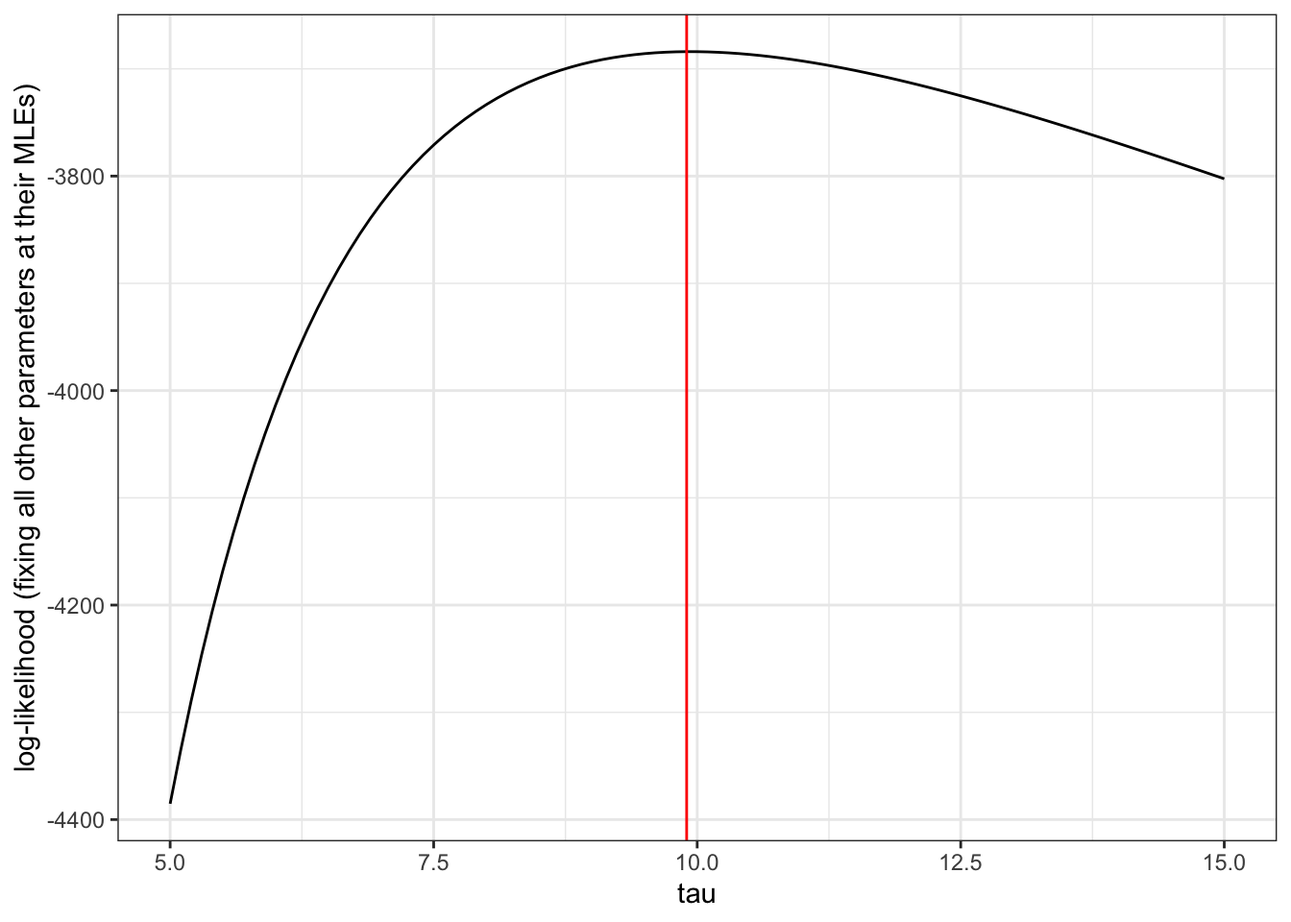
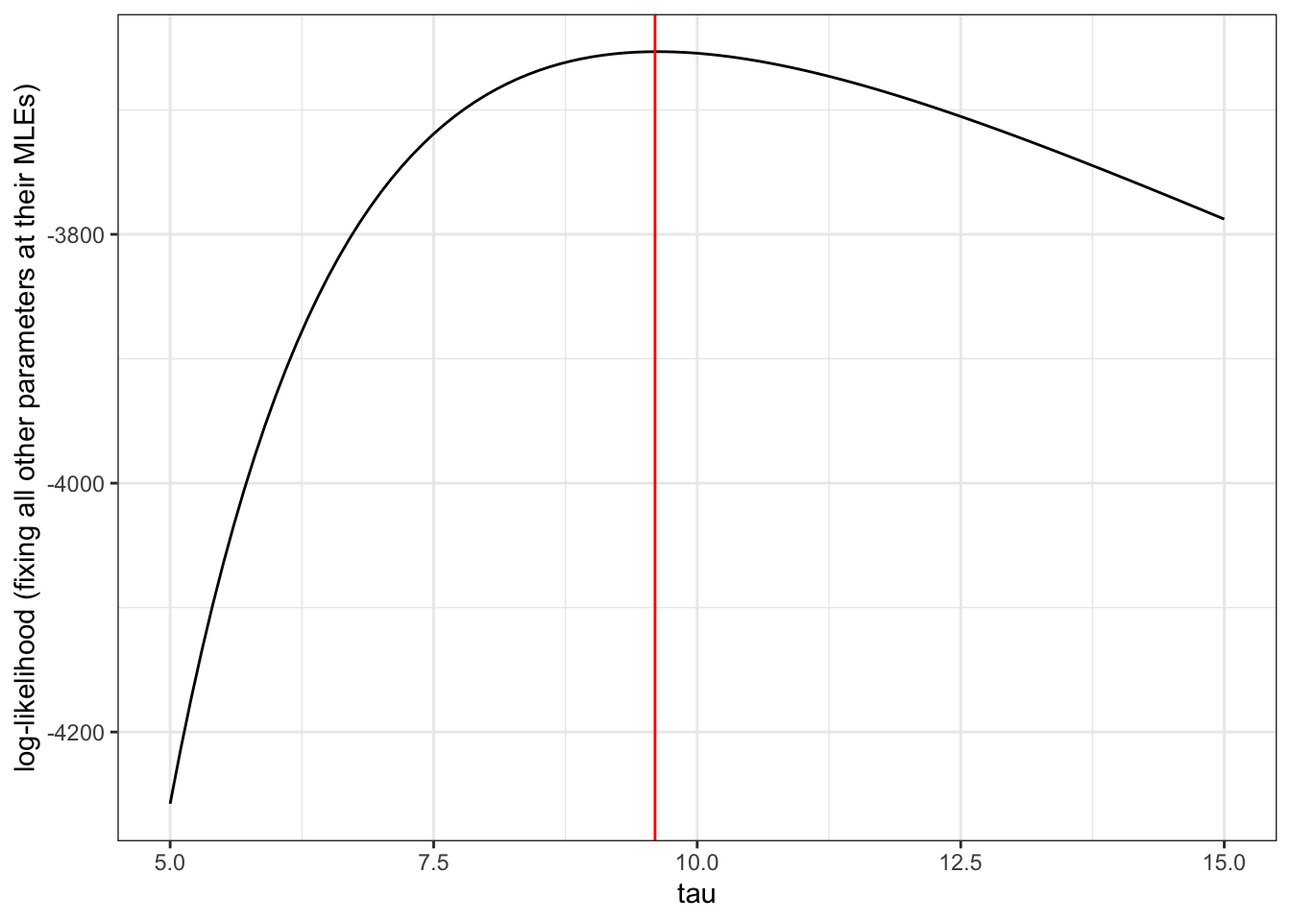
Built site for gh-pages

diff --git a/lec07-intro-to-stats.html b/lec07-intro-to-stats.html
@@ -364,9 +364,9 @@ pre > code.sourceCode > span > a:first-child::before { text-decoration: underlin
 <span id="cb2-5"><a href="#cb2-5" aria-hidden="true" tabindex="-1"></a>                                   <span class="at">replace =</span> T)</span>
 <span id="cb2-6"><a href="#cb2-6" aria-hidden="true" tabindex="-1"></a>realizations_N_die_rolls</span></code><button title="Copy to Clipboard" class="code-copy-button"><i class="bi"></i></button></pre></div>
 <div class="cell-output cell-output-stdout">
-<pre><code>  [1] 4 1 3 4 2 1 1 4 4 4 4 2 4 1 2 4 1 2 2 1 4 4 1 4 3 1 2 3 3 2 3 1 3 1 3 2 4
- [38] 3 4 2 2 1 4 3 2 1 2 1 1 1 3 3 1 2 1 3 2 3 4 2 2 3 1 4 3 1 4 1 1 2 1 2 3 1
- [75] 2 2 1 3 2 2 4 4 2 2 4 4 1 3 3 4 2 3 1 1 3 1 2 4 4 3</code></pre>
+<pre><code>  [1] 2 1 3 4 4 2 2 1 2 2 3 4 2 3 3 4 4 2 2 4 1 2 4 3 1 1 1 2 4 3 3 3 4 2 3 3 2
+ [38] 1 3 4 3 1 4 1 4 2 2 4 4 4 1 3 4 3 2 3 3 3 3 2 2 2 3 1 1 2 4 4 4 3 4 4 4 3
+ [75] 4 2 2 1 2 1 1 1 2 1 2 4 4 4 3 1 3 4 3 2 3 1 3 4 3 3</code></pre>
 </div>
 <div class="sourceCode cell-code" id="cb4"><pre class="sourceCode r code-with-copy"><code class="sourceCode r"><span id="cb4-1"><a href="#cb4-1" aria-hidden="true" tabindex="-1"></a>realizations_N_die_rolls <span class="ot">&lt;-</span> <span class="fu">data.frame</span>(<span class="at">value =</span> realizations_N_die_rolls)</span>
 <span id="cb4-2"><a href="#cb4-2" aria-hidden="true" tabindex="-1"></a><span class="fu">ggplot</span>(realizations_N_die_rolls, </span>
@@ -402,9 +402,9 @@ pre > code.sourceCode > span > a:first-child::before { text-decoration: underlin
 <span id="cb8-4"><a href="#cb8-4" aria-hidden="true" tabindex="-1"></a></span>
 <span id="cb8-5"><a href="#cb8-5" aria-hidden="true" tabindex="-1"></a><span class="fu">bernouli</span>(<span class="fl">0.1</span>, <span class="dv">100</span>) <span class="do">### 100 realizations of a Bernouli(p = 0.1) RV</span></span></code><button title="Copy to Clipboard" class="code-copy-button"><i class="bi"></i></button></pre></div>
 <div class="cell-output cell-output-stdout">
-<pre><code>  [1] 0 0 0 0 0 0 0 0 0 0 0 1 0 0 0 0 0 0 0 0 1 0 0 0 0 0 0 0 1 0 0 0 1 0 1 0 0
- [38] 0 1 0 1 0 0 1 0 0 0 0 0 0 0 0 0 0 0 0 0 0 1 0 0 0 0 1 0 0 0 0 0 0 0 0 0 0
- [75] 0 0 0 0 0 0 1 0 0 0 0 0 1 0 0 0 0 0 0 0 0 0 0 0 0 0</code></pre>
+<pre><code>  [1] 0 0 0 0 0 0 0 0 0 0 0 0 0 1 0 0 0 0 0 0 0 0 0 0 0 0 0 0 0 0 0 0 1 0 0 0 0
+ [38] 1 0 1 0 0 0 0 0 0 0 0 0 0 0 0 0 0 0 0 0 0 0 0 0 0 0 0 0 0 0 0 0 0 0 0 0 0
+ [75] 0 0 0 0 0 0 0 0 0 0 0 0 0 0 0 0 0 0 0 0 1 0 1 0 0 0</code></pre>
 </div>
 </div>
 <p>The distribution of a continuous random variable <span class="math inline">\(Y\)</span> is defined by a function <span class="math inline">\(f(y|\theta)\)</span> called its probability <em>density</em>. The probability of an event <span class="math inline">\(A\)</span> (for example, observing a number between 0.3 and 0.7) is</p>
@@ -433,33 +433,33 @@ pre > code.sourceCode > span > a:first-child::before { text-decoration: underlin
 <div class="cell">
 <div class="sourceCode cell-code" id="cb10"><pre class="sourceCode r code-with-copy"><code class="sourceCode r"><span id="cb10-1"><a href="#cb10-1" aria-hidden="true" tabindex="-1"></a><span class="fu">runif</span>(<span class="at">n =</span> <span class="dv">10</span>, <span class="at">min =</span> <span class="sc">-</span><span class="dv">1</span>, <span class="at">max =</span> <span class="dv">1</span>) </span></code><button title="Copy to Clipboard" class="code-copy-button"><i class="bi"></i></button></pre></div>
 <div class="cell-output cell-output-stdout">
-<pre><code> [1]  0.15636411 -0.20077892 -0.88064871 -0.82728765 -0.83898775 -0.54711388
- [7]  0.03401905 -0.82920443  0.78519119 -0.43522798</code></pre>
+<pre><code> [1] -0.7551430  0.4863448 -0.5445101  0.3445260 -0.2154239 -0.4950385
+ [7]  0.6940113 -0.5249796  0.4334644 -0.2951193</code></pre>
 </div>
 <div class="sourceCode cell-code" id="cb12"><pre class="sourceCode r code-with-copy"><code class="sourceCode r"><span id="cb12-1"><a href="#cb12-1" aria-hidden="true" tabindex="-1"></a><span class="do">## simulates n = 10 realizations of a Uniform(-1,1) RV</span></span>
 <span id="cb12-2"><a href="#cb12-2" aria-hidden="true" tabindex="-1"></a></span>
 <span id="cb12-3"><a href="#cb12-3" aria-hidden="true" tabindex="-1"></a><span class="fu">rnorm</span>(<span class="at">n =</span> <span class="dv">100</span>, <span class="at">mean =</span> <span class="dv">0</span>, <span class="at">sd =</span> <span class="dv">1</span>) </span></code><button title="Copy to Clipboard" class="code-copy-button"><i class="bi"></i></button></pre></div>
 <div class="cell-output cell-output-stdout">
-<pre><code>  [1]  0.186290074 -0.307937711 -2.622678373 -0.765204664  0.716497651
-  [6]  1.486331970  0.336537709 -1.081713954 -0.476078498 -0.101066067
- [11]  0.506426027  0.291500534  1.165895662  0.058372734 -0.598438147
- [16]  0.353840240  0.146578597 -0.007434363  1.324159542  0.351789896
- [21]  1.444847301  2.291641722  0.299225870 -1.427721417 -2.075522467
- [26]  0.824580748 -1.026758080 -0.010232511  0.925138202  0.746264240
- [31] -1.348698236  0.877665936  0.130779064 -1.288444177 -0.427523196
- [36]  1.359376519 -0.317637378 -0.392362348 -0.880304236 -1.751824169
- [41]  0.299961563 -0.760556111  0.175842671  0.044080999 -2.379845778
- [46] -0.950677547 -0.073163265 -1.037469121  0.829466198  0.886946345
- [51]  1.946919881  0.181391994 -1.417795306 -1.164110758 -1.022604902
- [56]  0.064447390 -0.042469422 -0.128506869 -0.247122555  1.648835340
- [61]  0.713435303  0.875304907 -1.168102985 -0.562204766 -0.982372044
- [66] -0.484452357 -0.745640397 -0.668713675  0.614189999  0.852368029
- [71]  0.883268825  0.260853633  0.914052792 -0.130726903 -1.202054554
- [76] -0.024219092 -2.330698737  0.296843791 -0.160916123 -1.524917133
- [81] -0.027195507 -0.598613376  0.610849347 -0.175396971 -1.657720950
- [86] -0.076994227 -0.662213930 -0.457348818 -0.261245626 -0.649377577
- [91]  0.007464799 -0.928225025  1.026002667  0.636254820 -0.001171721
- [96] -1.244819697 -0.279208235  0.198030642  0.225325294  0.305010754</code></pre>
+<pre><code>  [1]  0.185557683  0.035464607  0.294998424 -0.286635006 -1.570704553
+  [6]  0.473704134  1.436504605  0.078822511  1.259382701 -0.213604431
+ [11]  1.303338370 -0.591746496  0.115931319 -0.143751424  1.170245491
+ [16]  0.464061639 -0.097815337  0.354668343 -1.903639296  0.327528031
+ [21]  0.562065246 -0.014813469 -1.711315946 -1.374656064 -0.730839053
+ [26] -0.047386148  0.799567100  0.498624040 -1.938117543 -0.364540880
+ [31] -0.946504141 -1.623674799 -0.184971292 -0.522513531 -1.133510847
+ [36] -0.773451335 -0.122868133  1.368431433 -1.902941028  0.474588844
+ [41]  1.082515080  0.010628151  1.418385877  1.453426360 -0.425440315
+ [46]  1.273291512  1.317684496 -0.796017418 -0.045798535  0.047247541
+ [51]  0.009720535 -0.776959408  0.765053770  1.049456019 -1.324103173
+ [56] -0.393936495  0.045055617 -1.915159494 -0.447282301 -1.372442021
+ [61] -0.020900008 -0.800482477  1.391276500  0.007434624 -0.410323397
+ [66] -0.281993568 -0.647815292 -0.969692174 -1.654365146 -0.357192582
+ [71]  1.518528327  1.861646067 -0.398688098  0.232388722 -0.287016548
+ [76] -0.171883260 -0.036789765 -1.347889224 -0.152089396 -0.097141384
+ [81]  0.853231690 -0.713291291  0.165516773  0.141148079  2.534992931
+ [86] -0.081805106 -0.978244392 -0.123108478 -0.037099931  0.310643138
+ [91] -2.315856882 -0.182021476  2.527167245  1.975458152  0.183485933
+ [96]  0.323551995  0.704739563 -0.059035777 -1.051886169  1.194015521</code></pre>
 </div>
 <div class="sourceCode cell-code" id="cb14"><pre class="sourceCode r code-with-copy"><code class="sourceCode r"><span id="cb14-1"><a href="#cb14-1" aria-hidden="true" tabindex="-1"></a><span class="do">## simulates n = 100 realizations of a Normal(mean = 0, variance = 1) RV</span></span>
 <span id="cb14-2"><a href="#cb14-2" aria-hidden="true" tabindex="-1"></a><span class="do">## sd stands for standard deviation, and is the sqrt of the variance</span></span></code><button title="Copy to Clipboard" class="code-copy-button"><i class="bi"></i></button></pre></div>
@@ -470,9 +470,9 @@ pre > code.sourceCode > span > a:first-child::before { text-decoration: underlin
 <div class="sourceCode cell-code" id="cb15"><pre class="sourceCode r code-with-copy"><code class="sourceCode r"><span id="cb15-1"><a href="#cb15-1" aria-hidden="true" tabindex="-1"></a>X <span class="ot">&lt;-</span> <span class="fu">rnorm</span>(<span class="at">n =</span> <span class="dv">20</span>, <span class="at">mean =</span> <span class="dv">0</span>, <span class="at">sd =</span> <span class="dv">1</span>) </span>
 <span id="cb15-2"><a href="#cb15-2" aria-hidden="true" tabindex="-1"></a>X<span class="sc">^</span><span class="dv">2</span> <span class="sc">+</span> <span class="dv">6</span></span></code><button title="Copy to Clipboard" class="code-copy-button"><i class="bi"></i></button></pre></div>
 <div class="cell-output cell-output-stdout">
-<pre><code> [1]  6.062220  6.867856  8.214874  7.418558  9.682806  6.005157  6.614497
- [8]  6.547621  7.410111  7.335798  6.004382  8.010974  6.007929  6.670386
-[15]  7.653885  6.025811  7.122227  6.066434  6.071414 10.011871</code></pre>
+<pre><code> [1] 12.354019  6.358133  6.495763  7.990324  6.735033  6.000000  6.704796
+ [8]  7.034956  6.457767  9.047262  6.804755  6.192955  6.002328  8.258036
+[15]  7.277626 12.112478  6.031925  6.565027  7.787289  6.675109</code></pre>
 </div>
 </div>
 </section>
@@ -511,7 +511,7 @@ pre > code.sourceCode > span > a:first-child::before { text-decoration: underlin
 <span id="cb17-5"><a href="#cb17-5" aria-hidden="true" tabindex="-1"></a></span>
 <span id="cb17-6"><a href="#cb17-6" aria-hidden="true" tabindex="-1"></a><span class="fu">exponential_MLE</span>()</span></code><button title="Copy to Clipboard" class="code-copy-button"><i class="bi"></i></button></pre></div>
 <div class="cell-output cell-output-stdout">
-<pre><code>[1] 4.914377</code></pre>
+<pre><code>[1] 5.152478</code></pre>
 </div>
 <div class="sourceCode cell-code" id="cb19"><pre class="sourceCode r code-with-copy"><code class="sourceCode r"><span id="cb19-1"><a href="#cb19-1" aria-hidden="true" tabindex="-1"></a>estimator <span class="ot">&lt;-</span> <span class="fu">c</span>()</span>
 <span id="cb19-2"><a href="#cb19-2" aria-hidden="true" tabindex="-1"></a>N <span class="ot">&lt;-</span> <span class="dv">1000</span> <span class="do">### number of n=100 exponential draws</span></span>
@@ -576,8 +576,8 @@ pre > code.sourceCode > span > a:first-child::before { text-decoration: underlin
 <span id="cb21-30"><a href="#cb21-30" aria-hidden="true" tabindex="-1"></a><span class="do">### returns which parameters gave rise to max likelihood</span></span>
 <span id="cb21-31"><a href="#cb21-31" aria-hidden="true" tabindex="-1"></a>MLE <span class="ot">&lt;-</span> log_likelihood <span class="sc">%&gt;%</span> <span class="fu">subset</span>(LL <span class="sc">==</span> <span class="fu">max</span>(LL)); MLE</span></code><button title="Copy to Clipboard" class="code-copy-button"><i class="bi"></i></button></pre></div>
 <div class="cell-output cell-output-stdout">
-<pre><code>             LL mean1 mean2 sd1 sd2
-20143 -3683.958     0   9.5   1 9.9</code></pre>
+<pre><code>            LL mean1 mean2 sd1 sd2
+18938 -3653.16     0  10.5   1 9.6</code></pre>
 </div>
 <div class="sourceCode cell-code" id="cb23"><pre class="sourceCode r code-with-copy"><code class="sourceCode r"><span id="cb23-1"><a href="#cb23-1" aria-hidden="true" tabindex="-1"></a>log_likelihood <span class="sc">%&gt;%</span> <span class="fu">subset</span>(mean1 <span class="sc">==</span> MLE<span class="sc">$</span>mean1 <span class="sc">&amp;</span> </span>
 <span id="cb23-2"><a href="#cb23-2" aria-hidden="true" tabindex="-1"></a>                         mean2 <span class="sc">==</span> MLE<span class="sc">$</span>mean2 <span class="sc">&amp;</span> sd1 <span class="sc">==</span> MLE<span class="sc">$</span>sd1) <span class="sc">%&gt;%</span></span>
@@ -628,16 +628,16 @@ pre > code.sourceCode > span > a:first-child::before { text-decoration: underlin
 <span id="cb25-4"><a href="#cb25-4" aria-hidden="true" tabindex="-1"></a>test_statistic <span class="ot">&lt;-</span> <span class="sc">-</span><span class="dv">2</span><span class="sc">*</span>(likelihood_at_null<span class="sc">$</span>LL <span class="sc">-</span> MLE<span class="sc">$</span>LL) </span>
 <span id="cb25-5"><a href="#cb25-5" aria-hidden="true" tabindex="-1"></a>test_statistic <span class="do">### realized value of the likelihood ratio test statistic</span></span></code><button title="Copy to Clipboard" class="code-copy-button"><i class="bi"></i></button></pre></div>
 <div class="cell-output cell-output-stdout">
-<pre><code>[1] 1.487446</code></pre>
+<pre><code>[1] 3.513546</code></pre>
 </div>
 <div class="sourceCode cell-code" id="cb27"><pre class="sourceCode r code-with-copy"><code class="sourceCode r"><span id="cb27-1"><a href="#cb27-1" aria-hidden="true" tabindex="-1"></a><span class="fu">pchisq</span>(test_statistic, <span class="at">df =</span> <span class="dv">1</span>, <span class="at">lower.tail =</span> <span class="cn">FALSE</span>)</span></code><button title="Copy to Clipboard" class="code-copy-button"><i class="bi"></i></button></pre></div>
 <div class="cell-output cell-output-stdout">
-<pre><code>[1] 0.2226131</code></pre>
+<pre><code>[1] 0.06086903</code></pre>
 </div>
 <div class="sourceCode cell-code" id="cb29"><pre class="sourceCode r code-with-copy"><code class="sourceCode r"><span id="cb29-1"><a href="#cb29-1" aria-hidden="true" tabindex="-1"></a><span class="do">### if p &lt; 0.05, then we reject H0; otherwise, we fail to reject H0</span></span></code><button title="Copy to Clipboard" class="code-copy-button"><i class="bi"></i></button></pre></div>
 </div>
 <p>Since we have designed <span class="math inline">\(H_0\)</span> so that it is true (i.e., the values for the parameters are those used to generate the data), it should come as no surprise that we fail to reject the null hypothesis in favour of <span class="math inline">\(H_1\)</span>.</p>
-<p>In contrast, consider the test <span class="math inline">\(H_0: (\mu,\sigma,\nu,\tau) = (0,1,10,0)\)</span> vs <span class="math inline">\(H_1: (\mu,\sigma,\nu,\tau) \neq (0,1,10,5)\)</span>. In this case, <span class="math inline">\(p &lt; \alpha\)</span>, so that we have sufficient evidence to reject the null hypothesis.</p>
+<p>In contrast, consider the test <span class="math inline">\(H_0: (\mu,\sigma,\nu,\tau) = (0,1,10,5)\)</span> vs <span class="math inline">\(H_1: (\mu,\sigma,\nu,\tau) \neq (0,1,10,5)\)</span>. In this case, <span class="math inline">\(p &lt; \alpha\)</span>, so that we have sufficient evidence to reject the null hypothesis.</p>
 <div class="cell">
 <div class="sourceCode cell-code" id="cb30"><pre class="sourceCode r code-with-copy"><code class="sourceCode r"><span id="cb30-1"><a href="#cb30-1" aria-hidden="true" tabindex="-1"></a>likelihood_at_null <span class="ot">&lt;-</span> log_likelihood <span class="sc">%&gt;%</span> </span>
 <span id="cb30-2"><a href="#cb30-2" aria-hidden="true" tabindex="-1"></a>  <span class="fu">subset</span>(mean1 <span class="sc">==</span> <span class="dv">0</span> <span class="sc">&amp;</span> mean2 <span class="sc">==</span> <span class="dv">10</span> <span class="sc">&amp;</span> sd1 <span class="sc">==</span> <span class="dv">1</span> <span class="sc">&amp;</span> sd2 <span class="sc">==</span> <span class="dv">5</span>)</span>
@@ -645,11 +645,11 @@ pre > code.sourceCode > span > a:first-child::before { text-decoration: underlin
 <span id="cb30-4"><a href="#cb30-4" aria-hidden="true" tabindex="-1"></a>test_statistic <span class="ot">&lt;-</span> <span class="sc">-</span><span class="dv">2</span><span class="sc">*</span>(likelihood_at_null<span class="sc">$</span>LL <span class="sc">-</span> MLE<span class="sc">$</span>LL) </span>
 <span id="cb30-5"><a href="#cb30-5" aria-hidden="true" tabindex="-1"></a>test_statistic <span class="do">### realized value of the likelihood ratio test statistic</span></span></code><button title="Copy to Clipboard" class="code-copy-button"><i class="bi"></i></button></pre></div>
 <div class="cell-output cell-output-stdout">
-<pre><code>[1] 1394.297</code></pre>
+<pre><code>[1] 1229.886</code></pre>
 </div>
 <div class="sourceCode cell-code" id="cb32"><pre class="sourceCode r code-with-copy"><code class="sourceCode r"><span id="cb32-1"><a href="#cb32-1" aria-hidden="true" tabindex="-1"></a><span class="fu">pchisq</span>(test_statistic, <span class="at">df =</span> <span class="dv">1</span>, <span class="at">lower.tail =</span> <span class="cn">FALSE</span>)</span></code><button title="Copy to Clipboard" class="code-copy-button"><i class="bi"></i></button></pre></div>
 <div class="cell-output cell-output-stdout">
-<pre><code>[1] 3.64416e-305</code></pre>
+<pre><code>[1] 1.951094e-269</code></pre>
 </div>
 <div class="sourceCode cell-code" id="cb34"><pre class="sourceCode r code-with-copy"><code class="sourceCode r"><span id="cb34-1"><a href="#cb34-1" aria-hidden="true" tabindex="-1"></a><span class="do">### if p &lt; 0.05, then we reject H0; otherwise, we fail to reject H0</span></span></code><button title="Copy to Clipboard" class="code-copy-button"><i class="bi"></i></button></pre></div>
 </div>
@@ -669,7 +669,7 @@ pre > code.sourceCode > span > a:first-child::before { text-decoration: underlin
 <span id="cb35-9"><a href="#cb35-9" aria-hidden="true" tabindex="-1"></a><span class="fu">c</span>(<span class="fu">min</span>(values_inconfidence_interval<span class="sc">$</span>sd2),</span>
 <span id="cb35-10"><a href="#cb35-10" aria-hidden="true" tabindex="-1"></a>  <span class="fu">max</span>(values_inconfidence_interval<span class="sc">$</span>sd2)) <span class="do">### confidence interval!</span></span></code><button title="Copy to Clipboard" class="code-copy-button"><i class="bi"></i></button></pre></div>
 <div class="cell-output cell-output-stdout">
-<pre><code>[1]  9.5 10.4</code></pre>
+<pre><code>[1]  9.2 10.0</code></pre>
 </div>
 <div class="sourceCode cell-code" id="cb37"><pre class="sourceCode r code-with-copy"><code class="sourceCode r"><span id="cb37-1"><a href="#cb37-1" aria-hidden="true" tabindex="-1"></a>LL_plot <span class="sc">%&gt;%</span> <span class="fu">ggplot</span>(<span class="fu">aes</span>(<span class="at">x =</span> sd2, <span class="at">y =</span> LL)) <span class="sc">+</span> <span class="fu">geom_line</span>() <span class="sc">+</span></span>
 <span id="cb37-2"><a href="#cb37-2" aria-hidden="true" tabindex="-1"></a>  <span class="fu">geom_vline</span>(<span class="at">xintercept =</span> MLE<span class="sc">$</span>sd2, <span class="at">color =</span> <span class="st">"red"</span>) <span class="sc">+</span></span>
@@ -705,13 +705,13 @@ pre > code.sourceCode > span > a:first-child::before { text-decoration: underlin
     One Sample t-test
 
 data:  data
-t = -1.0838, df = 99, p-value = 0.2811
+t = -2.9682, df = 99, p-value = 0.003757
 alternative hypothesis: true mean is not equal to 0.25
 1 percent confidence interval:
- 0.1478576 0.1501988
+ -0.02788825 -0.02554540
 sample estimates:
-mean of x 
-0.1490282 </code></pre>
+  mean of x 
+-0.02671683 </code></pre>
 </div>
 </div>
 <section id="tests-of-the-equality-of-group-means" class="level3" data-number="9.7.1">
@@ -727,13 +727,13 @@ mean of x
     Welch Two Sample t-test
 
 data:  obs1 and obs2
-t = -9.0778, df = 115.36, p-value = 3.566e-15
+t = -8.6748, df = 115.06, p-value = 3.117e-14
 alternative hypothesis: true difference in means is not equal to 0
 95 percent confidence interval:
- -1.2893837 -0.8274911
+ -1.2792986 -0.8036758
 sample estimates:
   mean of x   mean of y 
--0.04536581  1.01307161 </code></pre>
+-0.02066272  1.02082452 </code></pre>
 </div>
 <div class="sourceCode cell-code" id="cb42"><pre class="sourceCode r code-with-copy"><code class="sourceCode r"><span id="cb42-1"><a href="#cb42-1" aria-hidden="true" tabindex="-1"></a><span class="do">### alternatively, one can use the following syntax:</span></span>
 <span id="cb42-2"><a href="#cb42-2" aria-hidden="true" tabindex="-1"></a></span>
@@ -746,13 +746,13 @@ sample estimates:
     Welch Two Sample t-test
 
 data:  obs by ID
-t = -9.0778, df = 115.36, p-value = 3.566e-15
+t = -8.6748, df = 115.06, p-value = 3.117e-14
 alternative hypothesis: true difference in means between group 1 and group 2 is not equal to 0
 95 percent confidence interval:
- -1.2893837 -0.8274911
+ -1.2792986 -0.8036758
 sample estimates:
 mean in group 1 mean in group 2 
-    -0.04536581      1.01307161 </code></pre>
+    -0.02066272      1.02082452 </code></pre>
 </div>
 <div class="sourceCode cell-code" id="cb44"><pre class="sourceCode r code-with-copy"><code class="sourceCode r"><span id="cb44-1"><a href="#cb44-1" aria-hidden="true" tabindex="-1"></a><span class="co"># anova(lm(obs~ID, data))</span></span></code><button title="Copy to Clipboard" class="code-copy-button"><i class="bi"></i></button></pre></div>
 </div>

diff --git a/lec08-linear-models.html b/lec08-linear-models.html
@@ -682,18 +682,18 @@ lm(formula = fitness ~ scale(trait), data = data)
 
 Residuals:
      Min       1Q   Median       3Q      Max 
--0.46109 -0.07817  0.01994  0.09612  0.26859 
+-0.46550 -0.10044  0.03998  0.11402  0.29368 
 
 Coefficients:
              Estimate Std. Error t value Pr(&gt;|t|)    
-(Intercept)   1.00000    0.01511   66.20   &lt;2e-16 ***
-scale(trait)  0.33314    0.01518   21.94   &lt;2e-16 ***
+(Intercept)   1.00000    0.01654   60.48   &lt;2e-16 ***
+scale(trait)  0.38926    0.01662   23.42   &lt;2e-16 ***
 ---
 Signif. codes:  0 '***' 0.001 '**' 0.01 '*' 0.05 '.' 0.1 ' ' 1
 
-Residual standard error: 0.1511 on 98 degrees of freedom
-Multiple R-squared:  0.8309,    Adjusted R-squared:  0.8292 
-F-statistic: 481.5 on 1 and 98 DF,  p-value: &lt; 2.2e-16</code></pre>
+Residual standard error: 0.1654 on 98 degrees of freedom
+Multiple R-squared:  0.8484,    Adjusted R-squared:  0.8469 
+F-statistic: 548.6 on 1 and 98 DF,  p-value: &lt; 2.2e-16</code></pre>
 </div>
 <div class="sourceCode cell-code" id="cb34"><pre class="sourceCode r code-with-copy"><code class="sourceCode r"><span id="cb34-1"><a href="#cb34-1" aria-hidden="true" tabindex="-1"></a><span class="do">### fitness changed by ~50% per sd change in trait value!</span></span>
 <span id="cb34-2"><a href="#cb34-2" aria-hidden="true" tabindex="-1"></a></span>
@@ -715,19 +715,19 @@ lm(formula = fitness ~ scale(trait) + scale(trait^2), data = data)
 
 Residuals:
       Min        1Q    Median        3Q       Max 
--0.166024 -0.055541 -0.003314  0.060323  0.184896 
+-0.236019 -0.059176  0.003284  0.061485  0.173442 
 
 Coefficients:
                 Estimate Std. Error t value Pr(&gt;|t|)    
-(Intercept)     1.000000   0.008273  120.88   &lt;2e-16 ***
-scale(trait)    0.777563   0.030474   25.52   &lt;2e-16 ***
-scale(trait^2) -0.461952   0.030474  -15.16   &lt;2e-16 ***
+(Intercept)     1.000000   0.008655  115.54   &lt;2e-16 ***
+scale(trait)    0.921278   0.034078   27.04   &lt;2e-16 ***
+scale(trait^2) -0.550245   0.034078  -16.15   &lt;2e-16 ***
 ---
 Signif. codes:  0 '***' 0.001 '**' 0.01 '*' 0.05 '.' 0.1 ' ' 1
 
-Residual standard error: 0.08273 on 97 degrees of freedom
-Multiple R-squared:  0.9498,    Adjusted R-squared:  0.9488 
-F-statistic: 917.6 on 2 and 97 DF,  p-value: &lt; 2.2e-16</code></pre>
+Residual standard error: 0.08655 on 97 degrees of freedom
+Multiple R-squared:  0.9589,    Adjusted R-squared:  0.9581 
+F-statistic:  1132 on 2 and 97 DF,  p-value: &lt; 2.2e-16</code></pre>
 </div>
 </div>
 <p>Here, the blue (red) regression line is the linear (quadratic) individual selection surface, estimated by regressing fitness on trait value (and its square) simulated under a model of directional selection.</p>
@@ -846,21 +846,21 @@ glm(formula = disease_status ~ scale(age), family = binomial,
     data = data)
 
 Deviance Residuals: 
-     Min        1Q    Median        3Q       Max  
--1.86005  -0.97083  -0.03031   1.04883   1.74735  
+   Min      1Q  Median      3Q     Max  
+-1.512  -1.137  -0.789   1.090   1.598  
 
 Coefficients:
-            Estimate Std. Error z value Pr(&gt;|z|)    
-(Intercept) 0.009611   0.217621   0.044 0.964775    
-scale(age)  0.880024   0.237002   3.713 0.000205 ***
+            Estimate Std. Error z value Pr(&gt;|z|)  
+(Intercept)  -0.0879     0.2074  -0.424   0.6716  
+scale(age)    0.5443     0.2145   2.537   0.0112 *
 ---
 Signif. codes:  0 '***' 0.001 '**' 0.01 '*' 0.05 '.' 0.1 ' ' 1
 
 (Dispersion parameter for binomial family taken to be 1)
 
-    Null deviance: 138.63  on 99  degrees of freedom
-Residual deviance: 122.38  on 98  degrees of freedom
-AIC: 126.38
+    Null deviance: 138.47  on 99  degrees of freedom
+Residual deviance: 131.61  on 98  degrees of freedom
+AIC: 135.61
 
 Number of Fisher Scoring iterations: 4</code></pre>
 </div>
@@ -897,19 +897,19 @@ Number of Fisher Scoring iterations: 4</code></pre>
 <tbody>
 <tr class="odd">
 <td style="text-align: right;">100</td>
-<td style="text-align: right;">0.887</td>
+<td style="text-align: right;">0.872</td>
 </tr>
 <tr class="even">
 <td style="text-align: right;">110</td>
-<td style="text-align: right;">0.917</td>
+<td style="text-align: right;">0.913</td>
 </tr>
 <tr class="odd">
 <td style="text-align: right;">120</td>
-<td style="text-align: right;">0.934</td>
+<td style="text-align: right;">0.942</td>
 </tr>
 <tr class="even">
 <td style="text-align: right;">130</td>
-<td style="text-align: right;">0.953</td>
+<td style="text-align: right;">0.958</td>
 </tr>
 <tr class="odd">
 <td style="text-align: right;">140</td>
@@ -917,27 +917,27 @@ Number of Fisher Scoring iterations: 4</code></pre>
 </tr>
 <tr class="even">
 <td style="text-align: right;">150</td>
-<td style="text-align: right;">0.978</td>
+<td style="text-align: right;">0.987</td>
 </tr>
 <tr class="odd">
 <td style="text-align: right;">160</td>
-<td style="text-align: right;">0.985</td>
+<td style="text-align: right;">0.989</td>
 </tr>
 <tr class="even">
 <td style="text-align: right;">170</td>
-<td style="text-align: right;">0.985</td>
+<td style="text-align: right;">0.996</td>
 </tr>
 <tr class="odd">
 <td style="text-align: right;">180</td>
-<td style="text-align: right;">0.996</td>
+<td style="text-align: right;">0.997</td>
 </tr>
 <tr class="even">
 <td style="text-align: right;">190</td>
-<td style="text-align: right;">0.998</td>
+<td style="text-align: right;">0.996</td>
 </tr>
 <tr class="odd">
 <td style="text-align: right;">200</td>
-<td style="text-align: right;">0.997</td>
+<td style="text-align: right;">0.998</td>
 </tr>
 </tbody>
 </table>
